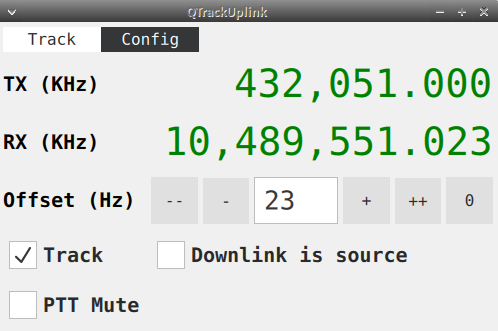
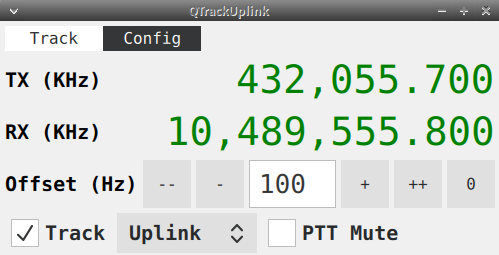
Use a dropdown to switch the reference source

diff --git a/qml/TrackItem.qml b/qml/TrackItem.qml
@@ -106,28 +106,35 @@ Item {
             }
         }
 
-        CheckBox {
-            text: qsTr("Track")
-            font.bold: true
-            font.pixelSize: 20
-            checked: backend.trackingEnabled
-            onCheckedChanged: backend.trackingEnabled = checked
-        }
+        RowLayout {
 
-        CheckBox {
-            text: qsTr("Downlink is source")
-            font.bold: true
-            font.pixelSize: 20
-            checked: backend.downlinkIsSource
-            onCheckedChanged: backend.downlinkIsSource = checked
-        }
+            Layout.columnSpan: 2
 
-        CheckBox {
-            text: qsTr("PTT Mute")
-            font.bold: true
-            font.pixelSize: 20
-            checked: backend.rxAudioMuteEnabled
-            onCheckedChanged: backend.rxAudioMuteEnabled = checked
+            CheckBox {
+                text: qsTr("Track")
+                font.bold: true
+                font.pixelSize: 20
+                checked: backend.trackingEnabled
+                onCheckedChanged: backend.trackingEnabled = checked
+            }
+
+            ComboBox {
+                model: ["Uplink", "Downlink"]
+                font.bold: true
+                font.pixelSize: 20
+                currentIndex: backend.downlinkIsSource ? 1 : 0
+                onCurrentIndexChanged: backend.downlinkIsSource = currentIndex === 0 ? false : true
+                Layout.fillWidth: true
+                Layout.maximumWidth: 150
+            }
+
+            CheckBox {
+                text: qsTr("PTT Mute")
+                font.bold: true
+                font.pixelSize: 20
+                checked: backend.rxAudioMuteEnabled
+                onCheckedChanged: backend.rxAudioMuteEnabled = checked
+            }
         }
     }
 }

diff --git a/qml/main.qml b/qml/main.qml
@@ -10,7 +10,7 @@ import QtQuick.Layouts 1.3 as LayoutsLegacy
 Window {
     visible: true
     minimumWidth: 500
-    minimumHeight: minimumWidth * 0.62
+    minimumHeight: minimumWidth * 0.47
 
     title: qsTr("QTrackUplink")
 

diff --git a/README.md b/README.md
@@ -13,7 +13,7 @@ An optional offset can be applied to compensate for frequency errors.
 
 The **Track** checkbox enables or disables frequency tracking.
 
-The **Downlink is source** checkbox switches the reference frequency source between uplink and downlink.
+The combo box switches the reference frequency source between uplink and downlink.
 Depending on the frequency steps of the uplink transceiver, the exact setpoint frequency will not always be reachable.
 
 The **PTT Mute** checkbox enables polling of the uplink transmitter's PTT status. A command is executed on PTT press,
